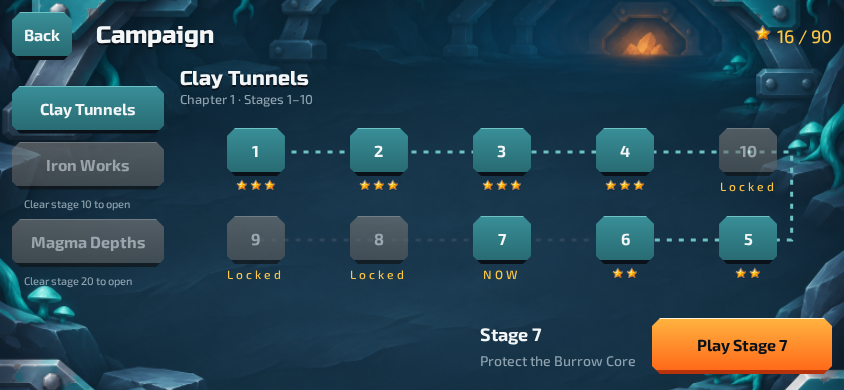
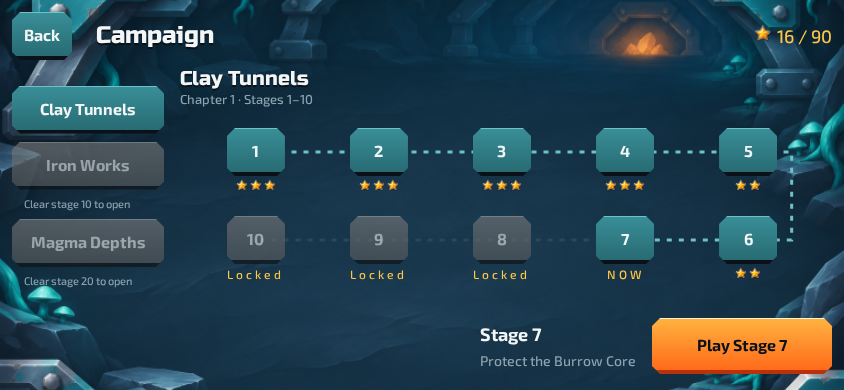
ui-designer: step 6afed5bc4b8d342701213777

diff --git a/design/mockups/main/stage-map/index.html b/design/mockups/main/stage-map/index.html
@@ -1,9 +1,9 @@
 <!doctype html>
 <html lang="en" data-window="stage-map"><head><meta charset="utf-8"><meta name="viewport" content="width=device-width,initial-scale=1"><title>Iron Burrow — Campaign</title><link rel="stylesheet" href="../../shared.css"><style>
 #screen{display:grid;grid-template:80px 1fr 100px / 230px 1fr 260px;gap:24px;padding:32px;background-image:url('../../../../assets/ui/screens/stage-map.png');background-size:cover;background-position:center;min-height:100svh;box-sizing:border-box}
-.map-header{grid-column:1/-1;display:flex;align-items:center;gap:24px}.map-header h1{margin:0}.map-header .total{margin-left:auto;color:#FFC845;font-size:24px}.chapters{display:flex;flex-direction:column;gap:16px;align-self:center}.chapter-slot{display:flex;flex-direction:column;gap:6px}.chapter-slot small{color:#8FA3B0;padding-left:12px}.map-content{grid-column:2/4;position:relative;display:flex;align-items:center;justify-content:center}.map-caption{position:absolute;top:8px;left:24px}.map-caption h2{font-size:32px;margin:0 0 8px}.map-caption p{color:#8FA3B0;margin:0}.nodes{position:relative;width:min(92%,850px);height:280px;display:grid;grid-template-columns:repeat(5,1fr);grid-template-rows:repeat(2,1fr);align-items:center;gap:32px 20px}.nodes:before{content:'';position:absolute;left:8%;right:8%;height:140px;border-top:3px dashed #6FC2C4;border-right:3px dashed #6FC2C4;border-bottom:3px dashed #2F4558;z-index:0}.node{z-index:1;display:flex;flex-direction:column;align-items:center;gap:8px}.node [data-kit-host]{width:72px}.node .stars{height:20px;color:#FFC845;font-size:16px;letter-spacing:3px}.node:nth-child(6){grid-column:5;grid-row:2}.node:nth-child(7){grid-column:4;grid-row:2}.node:nth-child(8){grid-column:3;grid-row:2}.node:nth-child(9){grid-column:2;grid-row:2}.node:nth-child(10){grid-column:1;grid-row:2}.map-footer{grid-column:2/4;display:flex;justify-content:flex-end;align-items:center;gap:24px}.selected-copy{line-height:1.5}.selected-copy strong{display:block;color:#F2F6F7;font-size:24px}.selected-copy small{color:#8FA3B0}.play-slot{min-width:230px}
+.map-header{grid-column:1/-1;display:flex;align-items:center;gap:24px}.map-header h1{margin:0}.map-header .total{margin-left:auto;color:#FFC845;font-size:24px}.chapters{display:flex;flex-direction:column;gap:16px;align-self:center}.chapter-slot{display:flex;flex-direction:column;gap:6px}.chapter-slot small{color:#8FA3B0;padding-left:12px}.map-content{grid-column:2/4;position:relative;display:flex;align-items:center;justify-content:center}.map-caption{position:absolute;top:8px;left:24px}.map-caption h2{font-size:32px;margin:0 0 8px}.map-caption p{color:#8FA3B0;margin:0}.nodes{position:relative;width:min(92%,850px);height:280px;display:grid;grid-template-columns:repeat(5,1fr);grid-template-rows:repeat(2,1fr);align-items:center;gap:32px 20px}.nodes:before{content:'';position:absolute;left:8%;right:8%;height:140px;border-top:3px dashed #6FC2C4;border-right:3px dashed #6FC2C4;border-bottom:3px dashed #2F4558;z-index:0}.node{z-index:1;display:flex;flex-direction:column;align-items:center;gap:8px}.node [data-kit-host]{width:72px}.node .stars{height:20px;color:#FFC845;font-size:16px;letter-spacing:3px}.node:nth-of-type(6){grid-column:5;grid-row:2}.node:nth-of-type(7){grid-column:4;grid-row:2}.node:nth-of-type(8){grid-column:3;grid-row:2}.node:nth-of-type(9){grid-column:2;grid-row:2}.node:nth-of-type(10){grid-column:1;grid-row:2}.map-footer{grid-column:2/4;display:flex;justify-content:flex-end;align-items:center;gap:24px}.selected-copy{line-height:1.5}.selected-copy strong{display:block;color:#F2F6F7;font-size:24px}.selected-copy small{color:#8FA3B0}.play-slot{min-width:230px}
 @media(min-width:700px) and (max-height:550px){#screen{grid-template:48px 1fr 64px / 152px 1fr 180px;padding:12px;gap:8px}.map-header h1{font-size:24px}.map-header .total{font-size:18px}.chapters{gap:8px}.chapter-slot small{font-size:11px}.map-caption{top:0;left:8px}.map-caption h2{font-size:20px;margin:0}.map-caption p{font-size:13px}.nodes{height:168px;margin-top:34px;gap:8px}.nodes:before{height:84px}.node{gap:2px}.node [data-kit-host]{width:58px}.node .stars{font-size:12px;height:14px}.map-footer{gap:16px}.selected-copy strong{font-size:18px}.play-slot{min-width:180px}}
-@media(max-width:699px){#screen{display:grid;grid-template:54px 122px 1fr 104px / 1fr;gap:12px;padding:16px}.map-header{grid-column:1;gap:12px}.map-header h1{font-size:24px}.map-header .total{font-size:18px}.chapters{display:grid;grid-template-columns:repeat(3,1fr);gap:8px;align-self:start}.chapter-slot small{display:none}.map-content{grid-column:1}.map-caption{top:0;left:8px}.map-caption h2{font-size:24px}.map-caption p{font-size:14px}.nodes{width:240px;height:100%;max-height:430px;margin-top:32px;grid-template-columns:1fr 1fr;grid-template-rows:repeat(5,1fr);gap:2px 32px}.nodes:before{left:25%;right:25%;top:10%;bottom:10%;height:auto;border:0;border-left:3px dashed #6FC2C4;border-right:3px dashed #2F4558}.node{gap:0}.node [data-kit-host]{width:64px}.node .stars{font-size:12px;height:15px}.node:nth-child(1){grid-area:1/1}.node:nth-child(2){grid-area:1/2}.node:nth-child(3){grid-area:2/2}.node:nth-child(4){grid-area:2/1}.node:nth-child(5){grid-area:3/1}.node:nth-child(6){grid-area:3/2}.node:nth-child(7){grid-area:4/2}.node:nth-child(8){grid-area:4/1}.node:nth-child(9){grid-area:5/1}.node:nth-child(10){grid-area:5/2}.map-footer{grid-column:1;gap:12px;align-items:center}.selected-copy strong{font-size:18px}.selected-copy small{font-size:12px}.play-slot{min-width:180px}}
+@media(max-width:699px){#screen{display:grid;grid-template:54px 122px 1fr 104px / 1fr;gap:12px;padding:16px}.map-header{grid-column:1;gap:12px}.map-header h1{font-size:24px}.map-header .total{font-size:18px}.chapters{display:grid;grid-template-columns:repeat(3,1fr);gap:8px;align-self:start}.chapter-slot small{display:none}.map-content{grid-column:1}.map-caption{top:0;left:8px}.map-caption h2{font-size:24px}.map-caption p{font-size:14px}.nodes{width:240px;height:100%;max-height:430px;margin-top:32px;grid-template-columns:1fr 1fr;grid-template-rows:repeat(5,1fr);gap:2px 32px}.nodes:before{left:25%;right:25%;top:10%;bottom:10%;height:auto;border:0;border-left:3px dashed #6FC2C4;border-right:3px dashed #2F4558}.node{gap:0}.node [data-kit-host]{width:64px}.node .stars{font-size:12px;height:15px}.node:nth-of-type(1){grid-area:1/1}.node:nth-of-type(2){grid-area:1/2}.node:nth-of-type(3){grid-area:2/2}.node:nth-of-type(4){grid-area:2/1}.node:nth-of-type(5){grid-area:3/1}.node:nth-of-type(6){grid-area:3/2}.node:nth-of-type(7){grid-area:4/2}.node:nth-of-type(8){grid-area:4/1}.node:nth-of-type(9){grid-area:5/1}.node:nth-of-type(10){grid-area:5/2}.map-footer{grid-column:1;gap:12px;align-items:center}.selected-copy strong{font-size:18px}.selected-copy small{font-size:12px}.play-slot{min-width:180px}}
 @media(max-width:699px){#screen{grid-template-rows:54px 72px 1fr 104px}.nodes{height:340px;max-height:none;margin-top:64px}.map-caption p{margin-top:4px}}
 .nodes:before{display:none}.route-lines{position:absolute;inset:0;width:100%;height:100%;pointer-events:none;z-index:0}@media(max-width:699px){.chapters{--preview-control-height:64px}}
 </style></head><body><main id="screen"></main><script type="module">

diff --git a/design/mockups/REPORT.md b/design/mockups/REPORT.md
@@ -27,3 +27,7 @@
 4. package-lock.json не добавлялся: package.json и файлы установки защищены инструкциями; scripts/assets.mjs и команда assets уже есть, прежнее замечание об их отсутствии устарело.
 
 Решения с обоснованиями внесены в docs/gdd/DECISIONS.md (D-MOCK-01…05). Итог: артефакты экранов созданы и механически проверены; общая/визуальная приёмка остаётся с явно указанными долгами.
+
+Уточнение общего прогона: после сборки и unit-части команда завершилась сигналом SIGTERM (143); полного отчёта галереи скина нет. Это **неполный FAIL**, не зелёная сдача. Unit-часть: 130 тестов, 122 PASS, 5 FAIL, 3 SKIP. Повтор общего прогона не выполнялся: перечисленные ошибки вне writeSet, а владелец запросил один общий прогон.
+
+Отдельный запуск на стенде завершён: STARTUP_CHECK.txt — **PASS** (три размера, окна существующего шаблона, вход, сетевой бюджет, отсутствие ошибок консоли). Это не приёмка реализации Iron Burrow: приложение по-прежнему содержит штатную игровую заглушку, которую данный шаг не меняет.
